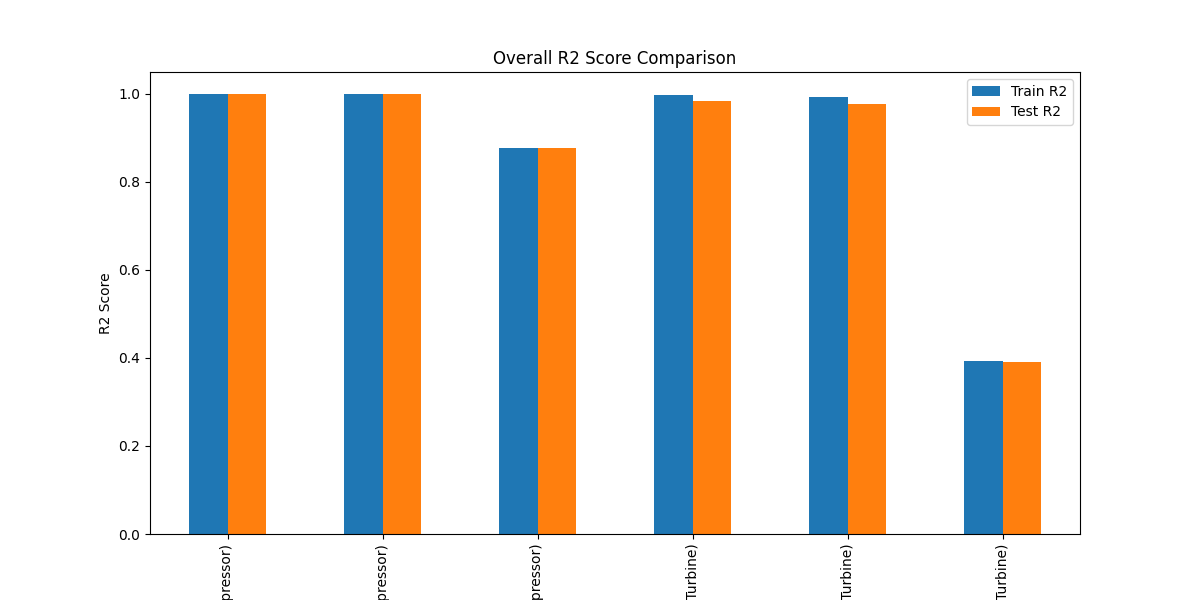
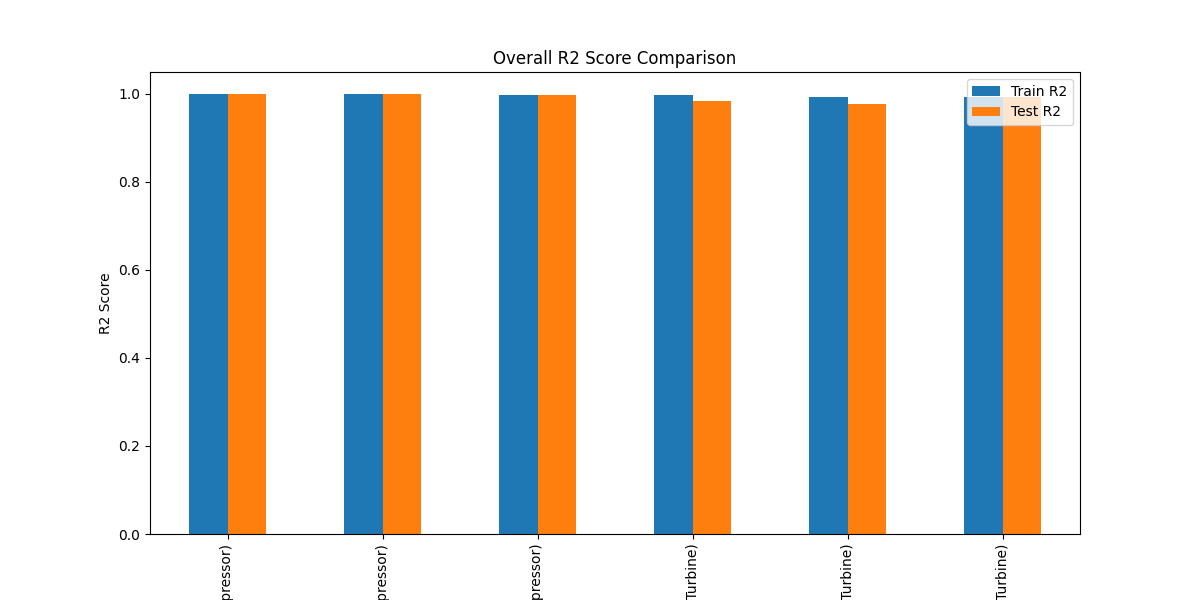
Change SVM episol and C

Changed region(s): [[0.8017, 0.15, 0.8942, 0.63], [0.4008, 0.15, 0.4933, 0.27]]

diff --git a/src/models/SVM.py b/src/models/SVM.py
@@ -42,7 +42,7 @@ def train_svm(train_path, test_path, target_col, image_dir=None):
     X_train_scaled = scaler.fit_transform(X_train)
     X_test_scaled = scaler.transform(X_test)
 
-    model = SVR(kernel='rbf', C=1.0, epsilon=0.01)
+    model = SVR(kernel='rbf', C=10.0, epsilon=0.001)
     model.fit(X_train_scaled, y_train)
 
     target_name = "Compressor" if "Compressor" in target_col else "Turbine"
